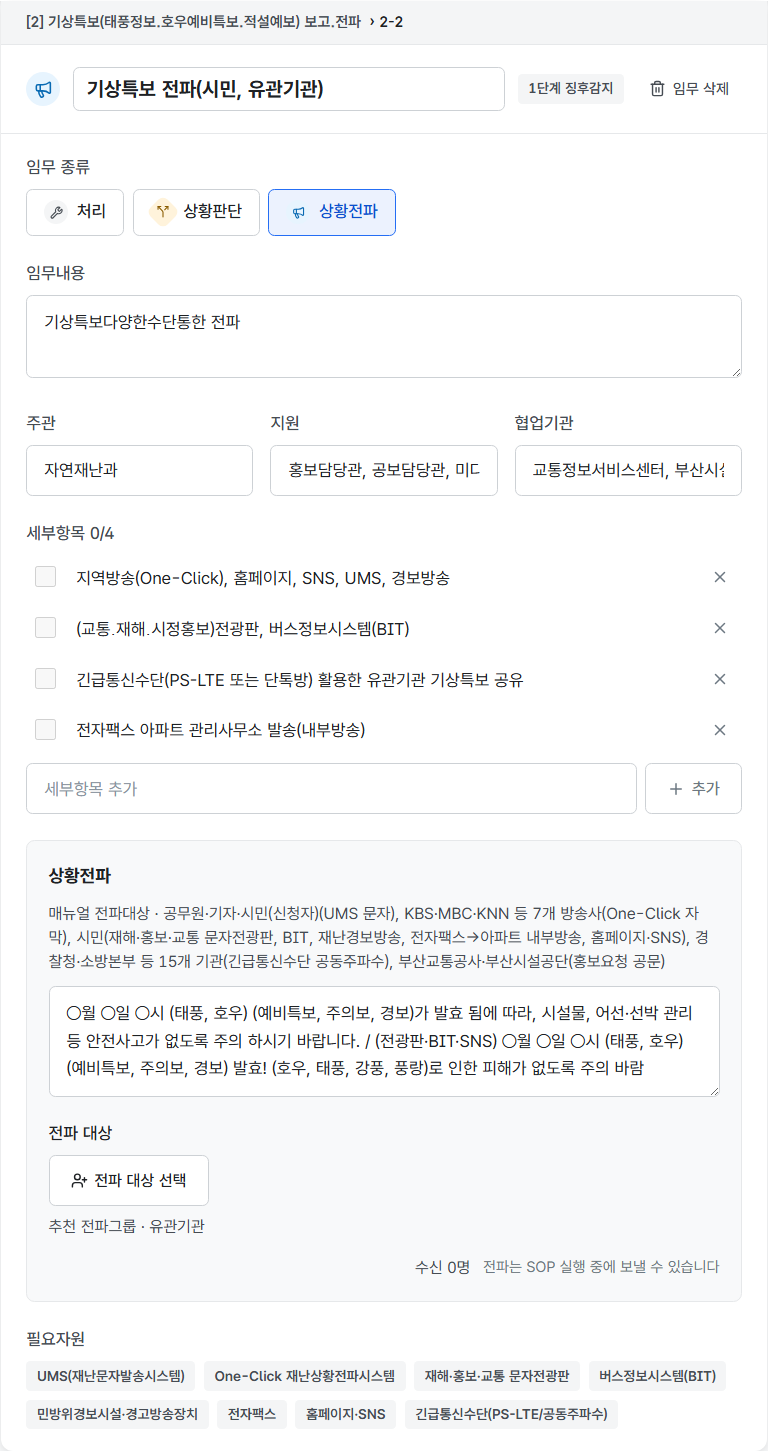
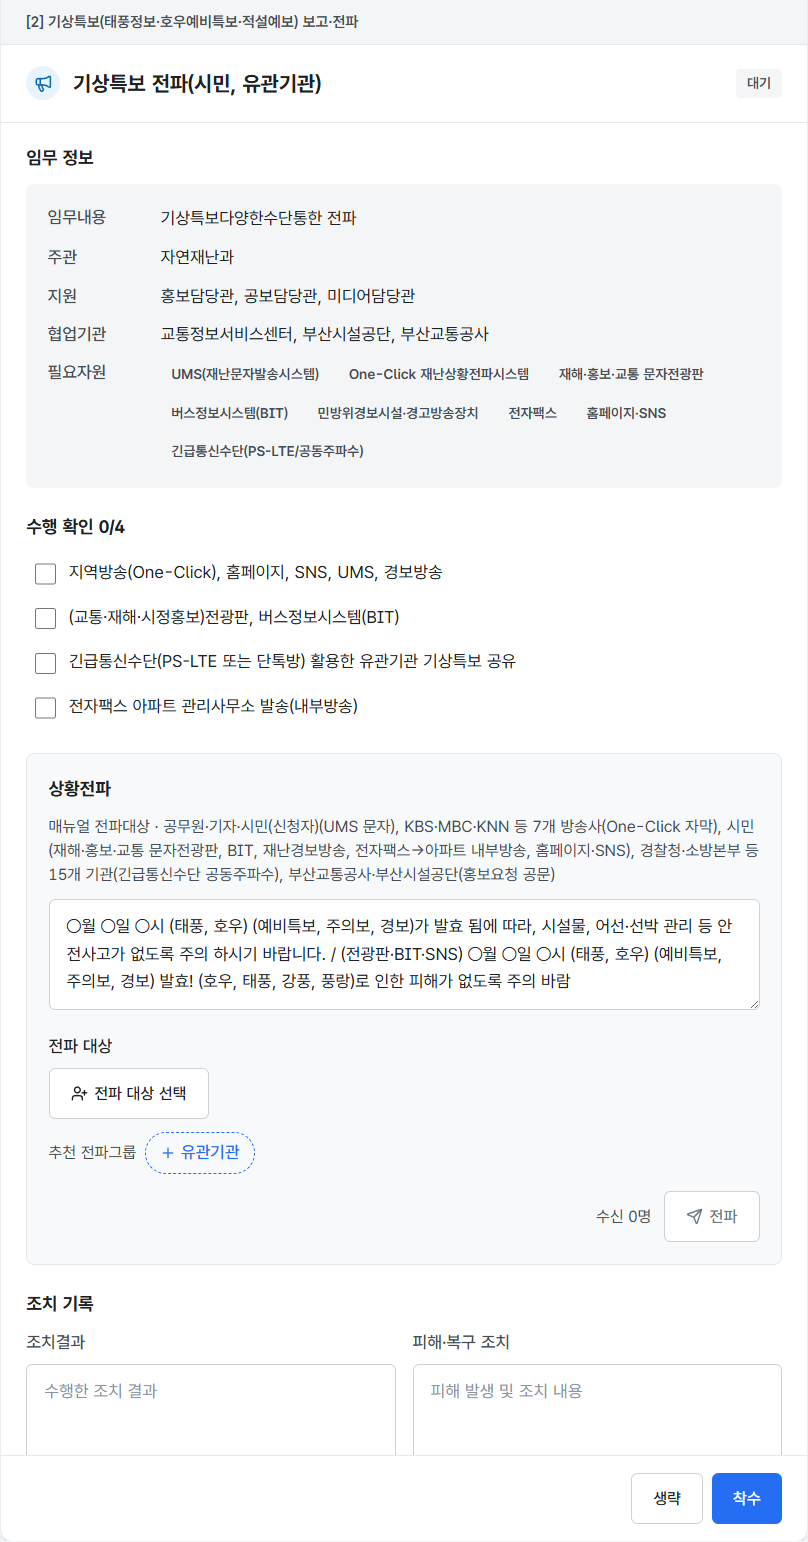
대응설명서: 화면 그림 6장 새로 캡처(등록·SOP 흐름도·필요시 임무·임무 상세·상황전파·크게 보기), 없어진 목록 보기 그림 삭제, 설명을 지금 화면에 맞춤

diff --git a/public/api-docs/mapping.html b/public/api-docs/mapping.html
@@ -318,7 +318,7 @@
 <section id="screen">
   <h2><span class="no">⑤</span>우리 화면에 이렇게 적용됩니다</h2>
   <p class="lead">위 JSON을 받아 <b>SOP</b> 탭이 만들어지는 모습입니다. 조치 1건 = 화면의 SOP 임무 1개입니다.
-    T3Q를 다시 부르지 않고 이 한 번의 응답으로 목록·순서도·상세·전파가 모두 만들어집니다.</p>
+    T3Q를 다시 부르지 않고 이 한 번의 응답으로 흐름도·상세·전파가 모두 만들어집니다.</p>
 
   <h3 class="sub"><span class="part">A</span>상황 머리 · 실행 바</h3>
   <figure><img src="/api-docs/img/app-sop-head.png" alt="SOP 탭 상단" /><figcaption>상황 제목 줄과 SOP 도구줄</figcaption></figure>
@@ -331,32 +331,32 @@
     <tr><td>「기본 SOP」 / 「AI」</td><td>「AI」 = T3Q 응답으로 만든 SOP, 「기본 SOP」 = 모의 모드·따라하기에서 앱의 매뉴얼 시드로 만든 SOP. T3Q 호출이 실패하면 시드로 대신하지 않고 오류를 보여 줌</td></tr>
   </table>
 
-  <h3 class="sub"><span class="part">B</span>SOP 임무 목록 — 단계 · 임무 · 조치</h3>
+  <h3 class="sub"><span class="part">B</span>SOP 흐름도 — 단계 · 임무</h3>
   <div class="grid narrow">
-    <figure><img src="/api-docs/img/app-list-top.png" alt="SOP 임무 목록" /><figcaption>SOP 임무 목록</figcaption></figure>
+    <figure><img src="/api-docs/img/app-sopflow-top.png" alt="SOP 흐름도" /><figcaption>SOP 탭 왼쪽 · SOP 흐름도</figcaption></figure>
     <table>
       <tr><th>화면</th><th>JSON</th><th>규칙</th></tr>
-      <tr><td>남색 띠 「1단계 징후감지」</td><td><code>actions[].phaseLabel</code></td><td>단계별로 묶음. 응답이 한 단계만 오므로 보통 띠 1개, 다음 단계는 「임무 추가」로 이어 붙임</td></tr>
-      <tr><td>회색 줄 「[1] 기상특보… 접수」</td><td><code>missions[]</code> (<code>missionCode</code>, <code>missionName</code>)</td><td>조치의 <code>missionCode</code>로 찾아 위에 한 번만 표시</td></tr>
-      <tr><td>「1-1 기상정보 모니터링」</td><td><code>actionCode</code> + <code>actionName</code></td><td><code>orderHint</code> 순서. 편집 모드에서 위·아래로 순서 조정 가능 (같은 단계 안)</td></tr>
-      <tr><td>「3-3,3-4」</td><td><code>actionCode</code> = <code>"3-3,3-4"</code></td><td>R6 — 코드 두 개 한 줄 = 임무 1개</td></tr>
-      <tr><td>왼쪽 아이콘 (처리 / 상황판단 / 상황전파)</td><td>— (앱이 판단)</td><td>조치명에 판단·회의 → 상황판단, 전파·보고·홍보 → 상황전파, 그 외 처리. 화면에서 바꿀 수 있음</td></tr>
+      <tr><td>파란 칩 「1단계 징후감지」</td><td><code>actions[].phaseLabel</code></td><td>단계별로 묶음. 응답이 한 단계만 오므로 보통 칩 1개, 다음 단계는 「SOP 편집 → 임무 추가」로 이어 붙임</td></tr>
+      <tr><td>「1 기상정보 모니터링」</td><td><code>actionName</code></td><td>번호는 <code>orderHint</code> 순서로 앱이 1부터 매김(필요시 임무 제외). 「SOP 편집」에서 위·아래로 순서 조정 (같은 단계 안)</td></tr>
+      <tr><td>임무 상세 맨 위 회색 줄 「[3] 기상특보… 대응」</td><td><code>missions[]</code> (<code>missionCode</code>, <code>missionName</code>)</td><td>조치의 <code>missionCode</code>로 찾아 상위 임무 이름으로 표시 (<a href="#screen">C</a>)</td></tr>
+      <tr><td>코드 두 개가 한 줄인 조치</td><td><code>actionCode</code> = <code>"3-3,3-4"</code></td><td>R6 — 임무 1개로 표시</td></tr>
+      <tr><td>모양 (원 = 처리 / 노란 마름모 = 상황판단 / 하늘색 테두리 = 상황전파)</td><td>— (앱이 판단)</td><td>조치명에 판단·회의 → 상황판단, 전파·보고·홍보 → 상황전파, 그 외 처리. 「SOP 편집」에서 바꿀 수 있음. 뜻은 제목 옆 「ⓘ」</td></tr>
+      <tr><td>분홍 알약</td><td>— (실행 상태)</td><td>지금 할 임무. 실행 중에만</td></tr>
     </table>
   </div>
 
   <h3 class="sub"><span class="part">C</span>임무 상세 — 행동카드 내용</h3>
   <div class="grid">
-    <figure><img src="/api-docs/img/app-mission.png" alt="임무 상세 3-1" /><figcaption>임무 상세 · 3-1 (초기)상황판단회의 개최</figcaption></figure>
+    <figure><img src="/api-docs/img/app-mission.png" alt="임무 상세 (초기)상황판단회의 개최" /><figcaption>임무 상세 · (초기)상황판단회의 개최</figcaption></figure>
     <table>
       <tr><th>화면</th><th>JSON</th><th>매뉴얼 (<a href="#s2">②</a>)</th></tr>
-      <tr><td>맨 위 「[3] … › 3-1」</td><td><code>missionName</code> › <code>actionCode</code></td><td>프로세스 표 <code>[3]</code>, <code>[3-1]</code></td></tr>
+      <tr><td>맨 위 회색 줄 「[3] …」</td><td><code>missionCode</code> + <code>missionName</code></td><td>프로세스 표 <code>[3]</code></td></tr>
       <tr><td>제목 칸</td><td><code>actionName</code></td><td>조치목록</td></tr>
-      <tr><td>「1단계 징후감지」</td><td><code>phaseLabel</code></td><td>카드 단계 표시</td></tr>
       <tr><td>임무내용</td><td><code>summary</code></td><td>조치내용</td></tr>
       <tr><td>주관 / 지원 / 협업기관</td><td><code>organizations[]</code> <code>LEAD</code> / <code>SUPPORT</code> / <code>COOPERATE</code></td><td>주관부서 / 지원부서 / 협업기관</td></tr>
-      <tr><td>세부항목 (체크)</td><td><code>detailTasks[].title</code> (없으면 <code>content</code>)</td><td><code>-</code> 줄 또는 표준행동 (R3·R9·R13)</td></tr>
-      <tr><td>「매뉴얼 전파대상 · …」</td><td><code>propagation[].target</code></td><td>전파대상 — <b>참고만</b>. 실제 수신자는 연락망에서 고름</td></tr>
-      <tr><td>필요자원 꼬리표</td><td><code>resources[]</code> (<code>name</code> + <code>quantity</code><code>unit</code>)</td><td>필요자원</td></tr>
+      <tr><td>필요자원 꼬리표 (임무 정보 안)</td><td><code>resources[]</code> (<code>name</code> + <code>quantity</code><code>unit</code>)</td><td>필요자원</td></tr>
+      <tr><td>수행 확인 (체크)</td><td><code>detailTasks[].title</code> (없으면 <code>content</code>)</td><td><code>-</code> 줄 또는 표준행동 (R3·R9·R13)</td></tr>
+      <tr><td>상황전파 영역</td><td><code>propagation[]</code></td><td>상황전파 임무에만 보임 (<a href="#screen">D</a>)</td></tr>
       <tr><td>(표시 안 함)</td><td><code>sources[]</code></td><td>쪽번호 — 보관·검수용, 화면에 내지 않음</td></tr>
     </table>
   </div>
@@ -364,13 +364,13 @@
 
   <h3 class="sub"><span class="part">D</span>상황전파 — 전파 표</h3>
   <div class="grid">
-    <figure><img src="/api-docs/img/app-propagation.png" alt="임무 상세 2-2 상황전파" /><figcaption>임무 상세 · 2-2 기상특보 전파</figcaption></figure>
+    <figure><img src="/api-docs/img/app-propagation.png" alt="임무 상세 기상특보 전파" /><figcaption>임무 상세 · 기상특보 전파(시민, 유관기관)</figcaption></figure>
     <table>
       <tr><th>화면</th><th>JSON</th><th>매뉴얼 (<a href="#s3">③</a>)</th></tr>
       <tr><td>「매뉴얼 전파대상 · 공무원·기자·시민…」</td><td><code>propagation[].target</code> (행마다 1건, 쉼표로 이어 표시)</td><td>전파 표의 전파대상 열</td></tr>
       <tr><td>전파 내용 (문안)</td><td><code>propagation[0].messageTemplate</code></td><td>행동카드의 「표준문안」 원문. 없으면 빈 칸 — 사용자가 써서 보냄</td></tr>
-      <tr><td>발송 수단 (문자 / 이메일)</td><td><code>propagation[0].channelHint</code></td><td>구분 열 — <code>EMAIL</code>이면 이메일, 그 외 문자</td></tr>
-      <tr><td>「추천 전파그룹 · 유관기관」</td><td><code>target</code>과 연락망 전파그룹 이름 비교</td><td>— (앱이 추천)</td></tr>
+      <tr><td>발송 수단 (문자 / 이메일)</td><td><code>propagation[0].channelHint</code> (저장만)</td><td>「전파」 → 발송 확인 창에서 문자·이메일을 고름(기본 문자). 실제 발송은 연계 전이라 모의 발송</td></tr>
+      <tr><td>추천 전파그룹 칩 「+ 유관기관」</td><td><code>target</code>과 연락망 전파그룹 이름 비교</td><td>— (앱이 추천). 누르면 바로 전파 대상에 추가</td></tr>
       <tr><td>전파 대상 선택 · 수신 n명</td><td>— (우리 연락망)</td><td>실제 수신자는 <b>항상 사람이 확정</b></td></tr>
       <tr><td>필요자원 「UMS · One-Click …」</td><td><code>resources[]</code></td><td>구분·전파방법에 나온 시스템</td></tr>
     </table>
@@ -379,23 +379,23 @@
 
 <section id="ondemand">
   <h2><span class="no">⑥</span>필요시 임무 — 흐름을 끊고 바로 실행</h2>
-  <p class="lead">「(필요시)」「(피해발생시)」「＊태풍 북상 우려시」처럼 <b>조건이 맞을 때만 하는 조치</b>는 순서도의 흐름선에 넣지 않습니다.
+  <p class="lead">「(필요시)」「(피해발생시)」「＊태풍 북상 우려시」처럼 <b>조건이 맞을 때만 하는 조치</b>는 흐름도의 흐름선에 넣지 않습니다.
     매뉴얼 기재 순서대로 끝에 두면 기다리다 놓치고, 중간에 끼우면 순서가 꼬이기 때문입니다.</p>
   <div class="grid narrow">
-    <figure><img src="/api-docs/img/app-list-ondemand.png" alt="목록 끝의 필요시 임무" /><figcaption>목록 · 단계 끝 「필요시 임무」</figcaption></figure>
+    <figure><img src="/api-docs/img/app-sopflow-ondemand.png" alt="SOP 흐름도 끝의 필요시 임무" /><figcaption>SOP 흐름도 · 단계 끝 「필요시 임무」</figcaption></figure>
     <div>
       <table>
         <tr><th>항목</th><th>처리</th></tr>
         <tr><td>무엇이 필요시 임무인가</td><td>응답 <code>condition</code>에 값이 있는 조치 (R8). 제목 일부에만 조건이 붙은 조치는 아님 (R18)</td></tr>
-        <tr><td>목록</td><td>각 대응단계 끝 주황 띠 「필요시 임무」 아래에 모음. 조건 문구를 제목 아래 주황 글씨로</td></tr>
-        <tr><td>순서도</td><td>흐름선 밖 아래 칸에 <b>점선 주황</b>으로. 선으로 잇지 않음</td></tr>
+        <tr><td>SOP 흐름도 (SOP 탭 왼쪽)</td><td>각 대응단계 끝 주황 글씨 「필요시 임무」 아래에 <b>점선 주황</b> 칸으로 모음. 번호 없이, 조건 문구를 제목 아래 주황 글씨로</td></tr>
+        <tr><td>크게 보기 (가로 흐름도)</td><td>흐름선 밖 아래 칸에 <b>점선 주황</b>으로. 선으로 잇지 않음</td></tr>
         <tr><td>실행</td><td>상황이 생기면 순서와 상관없이 눌러서 착수·완료. <b>실행 시각</b>이 칸에 붙음 → 순서를 다시 짤 필요 없음</td></tr>
         <tr><td>「다음 임무」 자동 선택</td><td>필요시 임무는 건너뜀 (흐름이 멈추지 않게)</td></tr>
         <tr><td>완료 집계</td><td>실행했을 때만 셈. 실행 안 하면 「해당 없음」 — 미완료가 아님</td></tr>
       </table>
     </div>
   </div>
-  <figure style="margin-top:20px"><img src="/api-docs/img/app-flow.png" alt="SOP 흐름도와 필요시 임무" /><figcaption>순서도 · 흐름선(위)과 필요시 임무 칸(아래). 분홍 = 지금 할 임무</figcaption></figure>
+  <figure style="margin-top:20px"><img src="/api-docs/img/app-flow.png" alt="크게 보기 가로 흐름도와 필요시 임무" /><figcaption>크게 보기(새 창, 상황실 큰 화면용) · 흐름선(위)과 필요시 임무 칸(아래). 분홍 = 지금 할 임무</figcaption></figure>
 </section>
 
 <section id="contacts">
